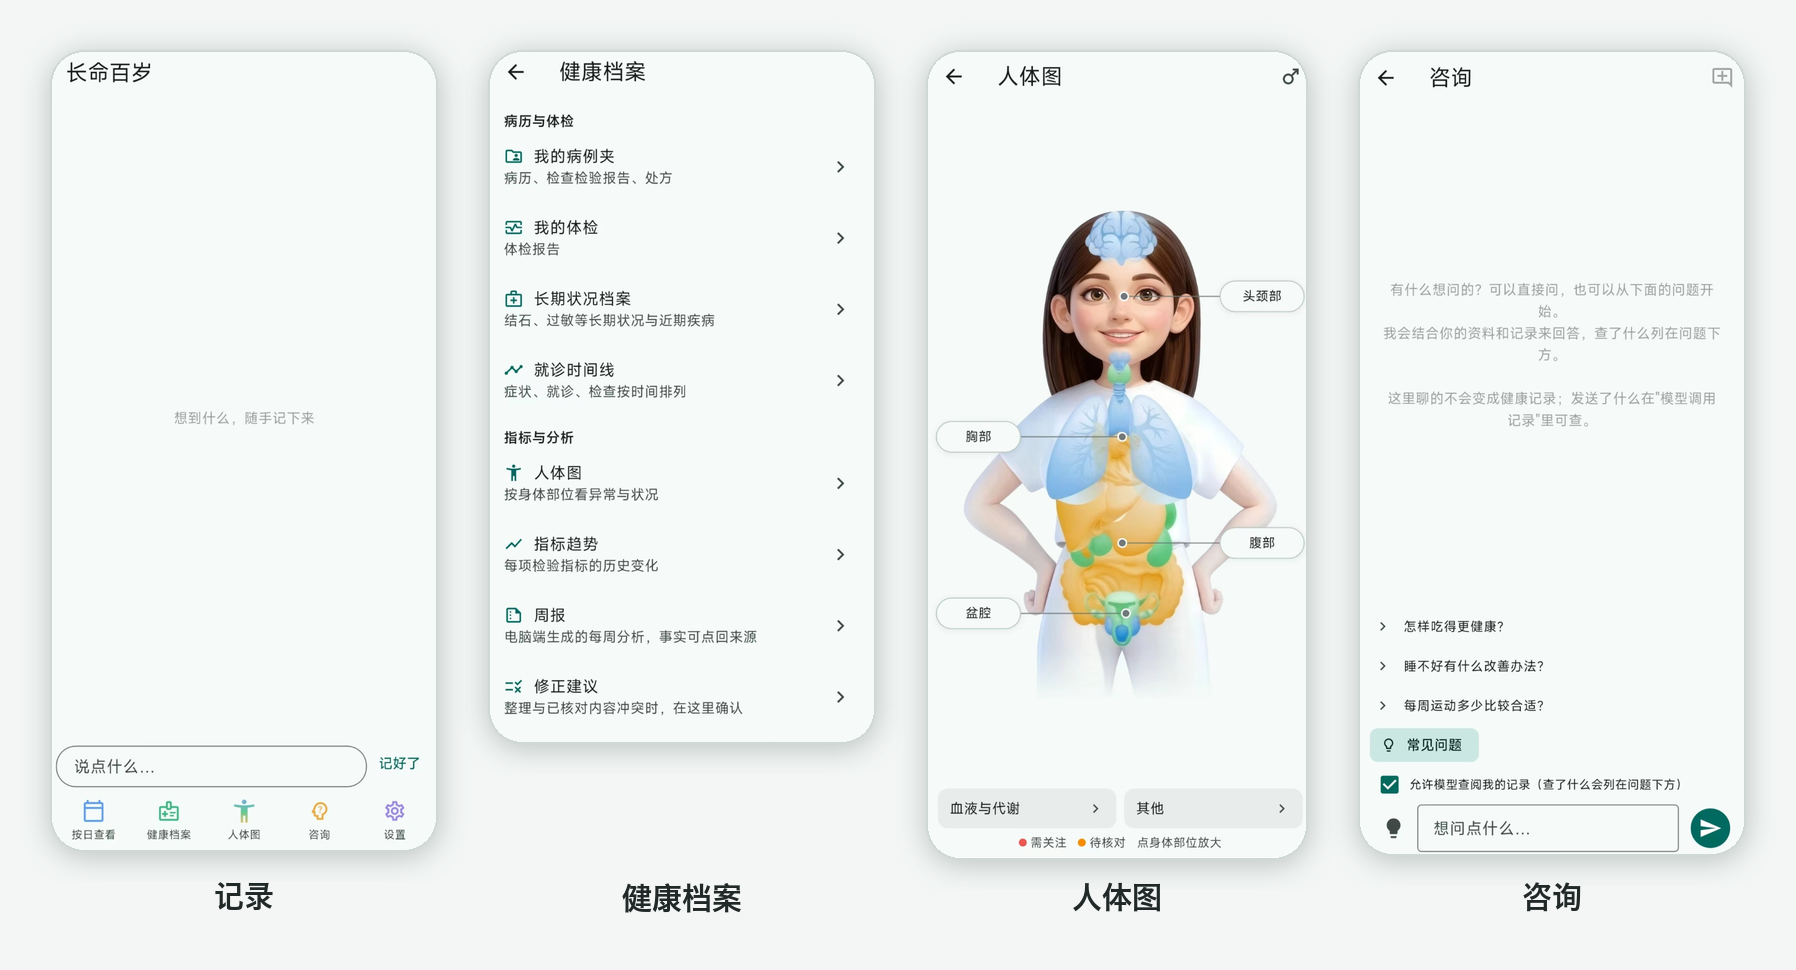
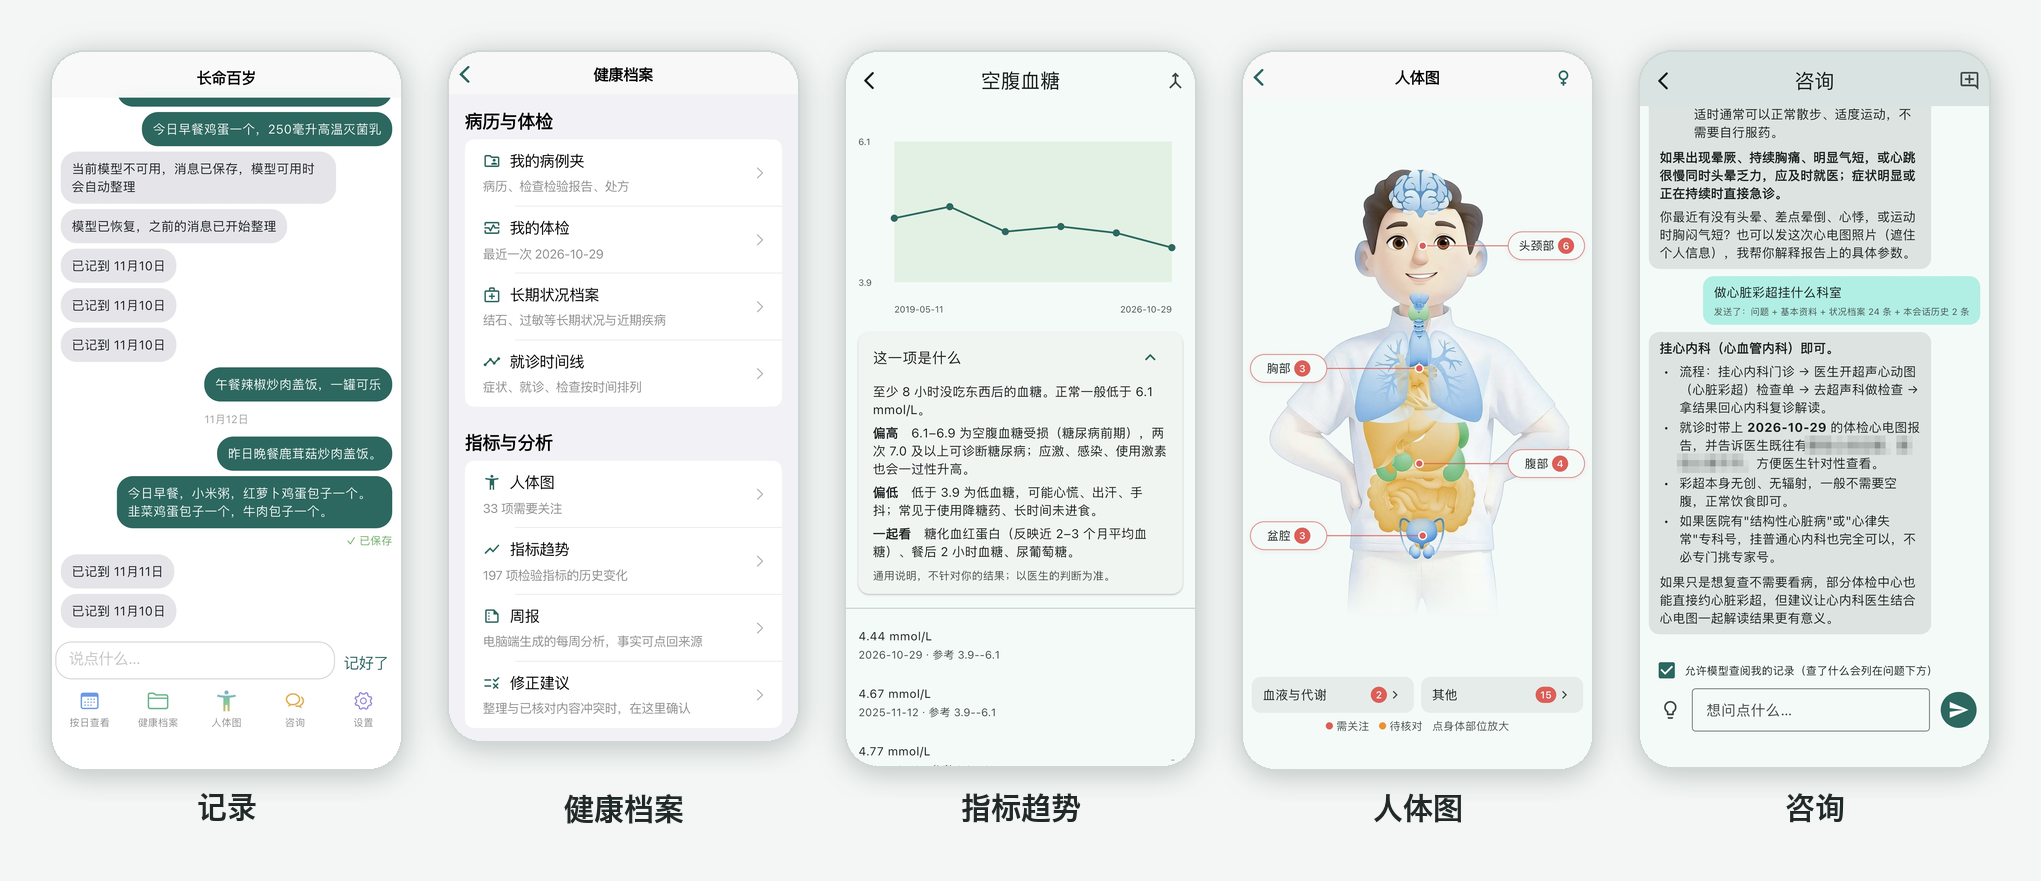
README 配图加入有数据的截图：记录、按日查看、病例夹与体检、长期状况、指标趋势、人体图、咨询都配上空白与有数据的对照，设备名、医疗机构和病名已打码

diff --git a/README.md b/README.md
@@ -4,13 +4,15 @@
 
 数据保存在你自己的设备上。手机负责记录，电脑负责分析和归档，两者在同一个局域网内加密同步。是否使用模型、使用哪家的模型、模型跑在本机还是云端，都由你决定。
 
-![手机端四个主要页面：记录、健康档案、人体图、咨询](docs/images/overview.png)
+![手机端主要页面：记录、健康档案、指标趋势、人体图、咨询](docs/images/overview.png)
+
+> 截图里的设备名、医疗机构和疾病名称已打码。
 
 ## 功能
 
 ### 日常记录（iPhone）
 
-![首页像聊天一样记录，底栏进入按日查看等页面](docs/images/home.png)
+![首页像聊天一样记录：刚装好时和记了几天之后](docs/images/record.png)
 
 - **像聊天一样记录**：连续发文字，每条立即保存；照片和 PDF 从病例夹或体检添加；可以修改或删除，修改历史保留。
 - **主动回顾**：按你设定的时间提醒回顾当天，只问还没记下的内容（早饭吃了什么、昨晚几点睡、今天有没有运动……）。
@@ -21,7 +23,7 @@
 - **导出与恢复**：导出为 JSON 加文件夹（带文件清单），可以从导出恢复，包括病例夹、体检和咨询记录。安卓上也可以直接选别的设备导出后压缩成的 zip 恢复。在原应用里恢复后，手机再同步时电脑端首页会提示重建副本：确认后先自动备份，再以手机现有的数据为准重新接收；卸载重装或换手机后恢复的，在电脑上重新配对即可继续同步。
 - **iCloud 备份**：在"文件"里选一个 iCloud 云盘里的文件夹，打开、离开应用时内容有变化就自动备份，也可以手动立即备份；可以选择用备份密码加密。附件只存一份、只上传新增的；每天保留最后一份，最多 4 天。换手机或卸载重装后，在首次引导或设置里选同一个文件夹、挑一份备份即可恢复，之后接着备份到这里。不含模型配置和 key。
 
-<p align="center"><img src="docs/images/settings.png" alt="设置页：每日回顾、读取健康数据、模型、连接电脑、iCloud 备份、医疗文件空间" width="560"></p>
+<p align="center"><img src="docs/images/day.png" alt="按日查看：整理出的饮食、运动记录和设备数据" width="420"> <img src="docs/images/settings.png" alt="设置页：每日回顾、读取健康数据、模型、连接电脑、iCloud 备份、医疗文件空间" width="420"></p>
 
 ### 病历与检查单（iPhone）
 
@@ -35,16 +37,22 @@
 - **结构化提取**：检验数值（项目、结果、单位、参考范围、异常标记）、诊断与检查文字（主诉、诊断、处理意见、超声所见和结论等）、处方药品、身体状况建议。模型会根据上下文修正识别错字，并逐处列出修正供你核对。
 - **逐项核对**：所有提取结果默认"未核对"，你确认或修改后才参与分析。文件顶部显示核对进度和异常数，可以只看未核对或只看异常，异常数值加粗标红；"全部确认"和删除都可以撤销。重新提取、用模型识图、整理文字、补大项收在"更多"里，各带一句什么时候用。诊断与检查文字、检验结果、处方药品里不需要的条目（比如空的备注栏）可以逐条删除。每个数值、每段文字都能跳回原件，并在对应位置显示高亮框。识别出的医疗机构、检查日期不对可以直接改，没识别出来的可以补填；改过的重新提取也不会被覆盖，检查日期改了，指标趋势和身体状况按新日期排。重新提取后，这份报告以前建议、还没核对、这次又没提取出来的身体状况会去掉，已确认的保留。
 - **长期状况档案**：区分长期状况（结石、慢性病、过敏等）和临时疾病。标记已痊愈的长期状况，周报和咨询里只作为既往病史参考，不按现有疾病给建议；已痊愈的临时疾病不再参与。提取错了、本来就不是疾病的条目（比如"乙肝表面抗体阳性"）可以删除，重新提取报告也不会再建议回来。复查、康复以追加方式记录，既往诊断和当时的指标不会被改写。不同年份报告里的同一问题归成一行，显示最新那份报告的写法，也能打开以前报告的原件。档案按身体系统（消化、心血管、骨骼肌肉、皮肤等）分组，既往病史和临时疾病单独收起；同一种病的不同叫法会自动合并，拿不准的会提示你确认，也可以手动合并或取消合并。
+
+![病例夹、体检和长期状况档案（个人信息已打码）](docs/images/files.png)
+
 - **指标趋势与就诊时间线**：顶部可以搜索，项目名、英文缩写（ALT、HGB）、以前的写法或检查大项都能搜到。点开一项，趋势图下面有"这一项是什么"：含义、偏高（或阳性）和偏低可能意味着什么、常和哪些指标一起看；常见项目内置了说明，目录外的项目可以让模型生成一次（只发项目名称、分组和单位），身高体重、过敏原这类不需要的不显示。同一检验项目按检查日期画出变化曲线，并标出参考范围；不同医院、不同年份的写法（比如"淋巴细胞比值"与"淋巴细胞百分数"、"BMI"与"体重指数"、"谷丙转氨酶"与"丙氨酸氨基转移酶"）归为同一项，按内置指标目录的标准中文名显示；提取报告时模型会把项目对号入座到标准名或已有项目上，拿不准的（比如没标大项、可能是尿检的葡萄糖）列进"整理项目名称"等你确认，也可以让模型整理已有的项目名（只发项目名称、分组和单位，不发数值），或在详情里手动合并、拆出；项目名前表示检验结果互认的"*"也不影响，小数比值（包括写成 0.45 的红细胞压积、0.27 的大血小板比率）换算成百分数再画；尿常规、便常规的"阴性""neg""未见"按 0 画，"±"和"+"到"++++"按 0.5 和 1 到 4 画；血压写成一项"122/86"的拆成收缩压、舒张压，和分开写的、复测的画在同一条线上，没测的"-"不画。列表按检查大项（血常规、尿常规、肝功能、血脂、肿瘤标志物、过敏原检测……）分组，目录里的项目按目录分组，不同医院对同一类检查的叫法归成一组，没标大项的按项目认（血压、血型、乙肝、过敏原等），尿常规的白细胞、葡萄糖、胆红素等和血里的同名项目分开，人体图上归到肾和膀胱；早先提取的报告、或长报告分批提取时漏标的，可以在详情页用模型补上大项（只发项目名称和已有的大项，不发数值）；症状、就诊、检查按时间排列。
+
+![指标趋势列表和单项详情](docs/images/trends.png)
+
 - **人体图**：首页底栏正中的彩色人体入口。全身图上点头颈部、胸部、腹部或盆腔，画面拉近到这一块，器官标签排在两侧，用指引线指到对应位置；盆腔按资料里的生理性别显示男女不同的器官，右上角也可以切换。有需要关注的内容时标签上会显示条数，红色表示已核对、橙色表示待核对：包括最近一次仍异常的检验数值、报告里的异常描述、未解除的身体状况，以及近 30 天的身体不适。同一个问题只算一次：体检报告汇总和明细各写一遍的会合并，不同年份的报告写了同一个问题（比如肾囊肿从 5 毫米长到 8 毫米）按最新的算，以前的写法列在「此前」里。点标签列出具体内容，每条都能跳回原文件。血脂、血糖、血常规等不对应单个器官的，归在图下方的「血液与代谢」；认不出部位的归在「其他」。
 
-![人体图：点身体部位拉近，器官标签指到对应位置](docs/images/bodymap.png)
+![人体图：刚装好、有了报告之后、点头颈部拉近](docs/images/bodymap.png)
 
 - **手机空间清理**：原件已在电脑上归档后，可以清理手机上的副本释放空间，提取出的数据、核对状态、来源定位全部保留；需要时再从电脑取回。
 
 ### 主动咨询（iPhone、Mac）
 
-<p align="center"><img src="docs/images/consult.png" alt="咨询页：示例问题、允许模型查阅我的记录" width="560"></p>
+![咨询：从示例问题开始，回答结合你的资料](docs/images/consult.png)
 
 - 临时想问的健康问题可以直接问模型。模型先拿到基本资料和你确认过的身体状况；需要具体数据时，它会自己查你的记录、苹果健康数据、检验指标历史和报告结论（医疗内容只查你核对过的），再根据查到的回答。在 iPhone 上，问到"昨晚睡得怎样""这次运动心率如何"这类问题时，它会实时读取"健康"App 里的心率、睡眠分期、血氧、血压、体重等数据，读到的数据不保存在应用里。查了什么列在问题下方，每一轮发出的内容都能在调用记录里看到。不想让模型查阅时，关掉"允许模型查阅我的记录"即可，这时只发基本资料和身体状况。输入框上方有按你已有数据生成的示例问题（睡眠、运动、检验指标、报告等），点一下就填进输入框，可以改了再发。
 - 咨询不会变成健康记录；回答边生成边显示，按格式排版。模型不做诊断、不给用药方案，需要就医时会明确建议。
